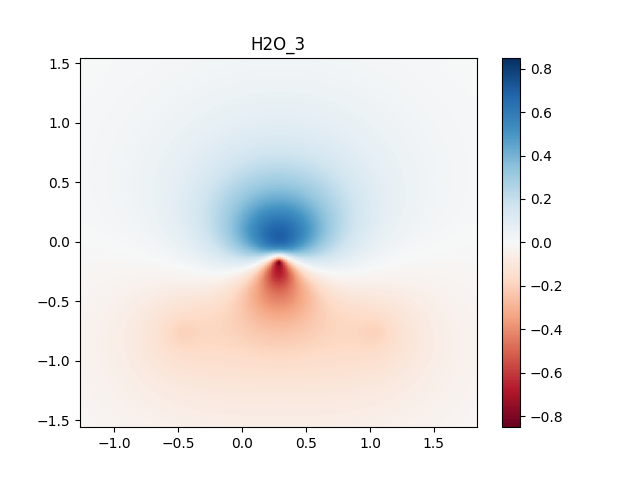
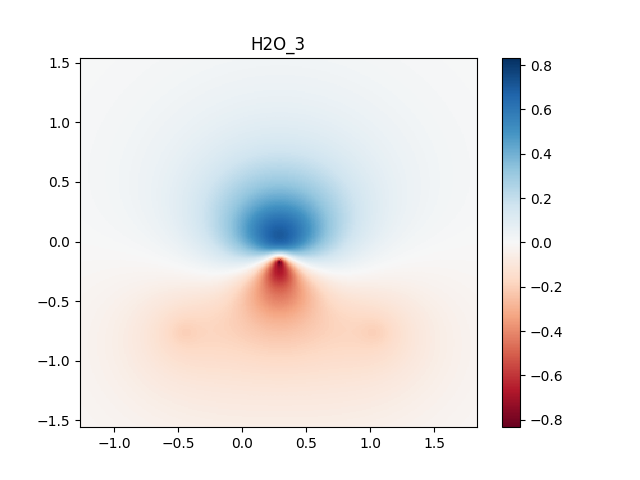
added more examples, HOMO, LUMO

diff --git a/src/OutputCreator.cpp b/src/OutputCreator.cpp
@@ -40,6 +40,17 @@ void OutputCreator::createOutputFile(Logger & logger, Mol & mol, InputParser & p
         logger.log("\t");
     }
     logger.log("\n");
+    logger.log("HOMO energy:\t");
+    logger.log(std::to_string(mol.getHOMOEnergy()));
+    logger.log("\n");
+    logger.log("LUMO energy:\t");
+    logger.log(std::to_string(mol.getLUMOEnergy()));
+    logger.log("\n");
+    logger.log("Gap between HOMO and LUMO:\t");
+    logger.log(std::to_string(mol.getLUMOEnergy() - mol.getHOMOEnergy()));
+    logger.log("\t=\t");
+    logger.log(std::to_string(HARTREE_TO_ELECTRONOVOLTS*(mol.getLUMOEnergy() - mol.getHOMOEnergy())));
+    logger.log("eV\n");
     logger.log("--------------------------------------------------------------\n");
 }
 

diff --git a/src/App.cpp b/src/App.cpp
@@ -17,7 +17,7 @@ void App::run(const std::string & inputFile, const std::string & outputFile)
     mol.HFComputation(_logger);
     _logger.say("Drawing plots and finishing (for big molecules up to few minutes)\n");
     _outputCreator.createOutputFile(_logger, mol, _parser);
-
+    _logger.close();
     if(_parser.getMOGraphFlag())
         _outputCreator.createMOPlainFiles(mol, _parser);
     if(_parser.getDGraphFlag())
@@ -25,7 +25,6 @@ void App::run(const std::string & inputFile, const std::string & outputFile)
 
     _outputCreator.createScriptOutputFile(mol, _parser);
 
-    _logger.close();
     
 }
 

diff --git a/src/Mol.cpp b/src/Mol.cpp
@@ -148,7 +148,7 @@ void Mol::HFSelfConsistentFieldMethod(Logger & logger)
 			break;
 		}			
 	} 
-	
+
 	if(abs(oldE-newE) < ERROR)
 		logger.say("Lack of significant changes in energy\nEnd of SCF\n");
 }
@@ -219,6 +219,15 @@ double Mol::getRepulsionEnergy()const
 double Mol::getOribtalEnergy(int m)const
 {
 	return _orbitalEnergies(m);
+}
+
+double Mol::getHOMOEnergy()const
+{
+	return _orbitalEnergies(_MOcount - 1);
+}
+double Mol::getLUMOEnergy()const
+{
+	return _orbitalEnergies(_MOcount);
 }
 
 double Mol::getElectronicEnergy()const

diff --git a/include/Mol.h b/include/Mol.h
@@ -44,6 +44,8 @@ public:
 	double getTotalEnergy()const;
     double getRepulsionEnergy()const;
     double getOribtalEnergy(int m)const;
+    double getHOMOEnergy()const;
+    double getLUMOEnergy()const;
     arma::vec getMolecularCoeficents(int m);
 	double countMolecularFunction(int m, const Position & p)const;
     double countMolecularFunction(int m, double x)const;

diff --git a/include/Constants.h b/include/Constants.h
@@ -5,6 +5,7 @@
 #define PI 3.14159265358979323846
 #define M_SQRTPI 1.77245385090551602729816748334
 #define BOHR_TO_ANGSTROM 0.52917721
+#define HARTREE_TO_ELECTRONOVOLTS 27.211396641308
 #define ERROR 1.0e-6
 
 

diff --git a/include/InputParser.h b/include/InputParser.h
@@ -62,7 +62,7 @@ private:
     double _cornerY{0};
     double _width{0};
     double _height{0};
-    double _sampleDencity{0.005};
+    double _sampleDencity{0.01};
 
     std::string _input;
     
